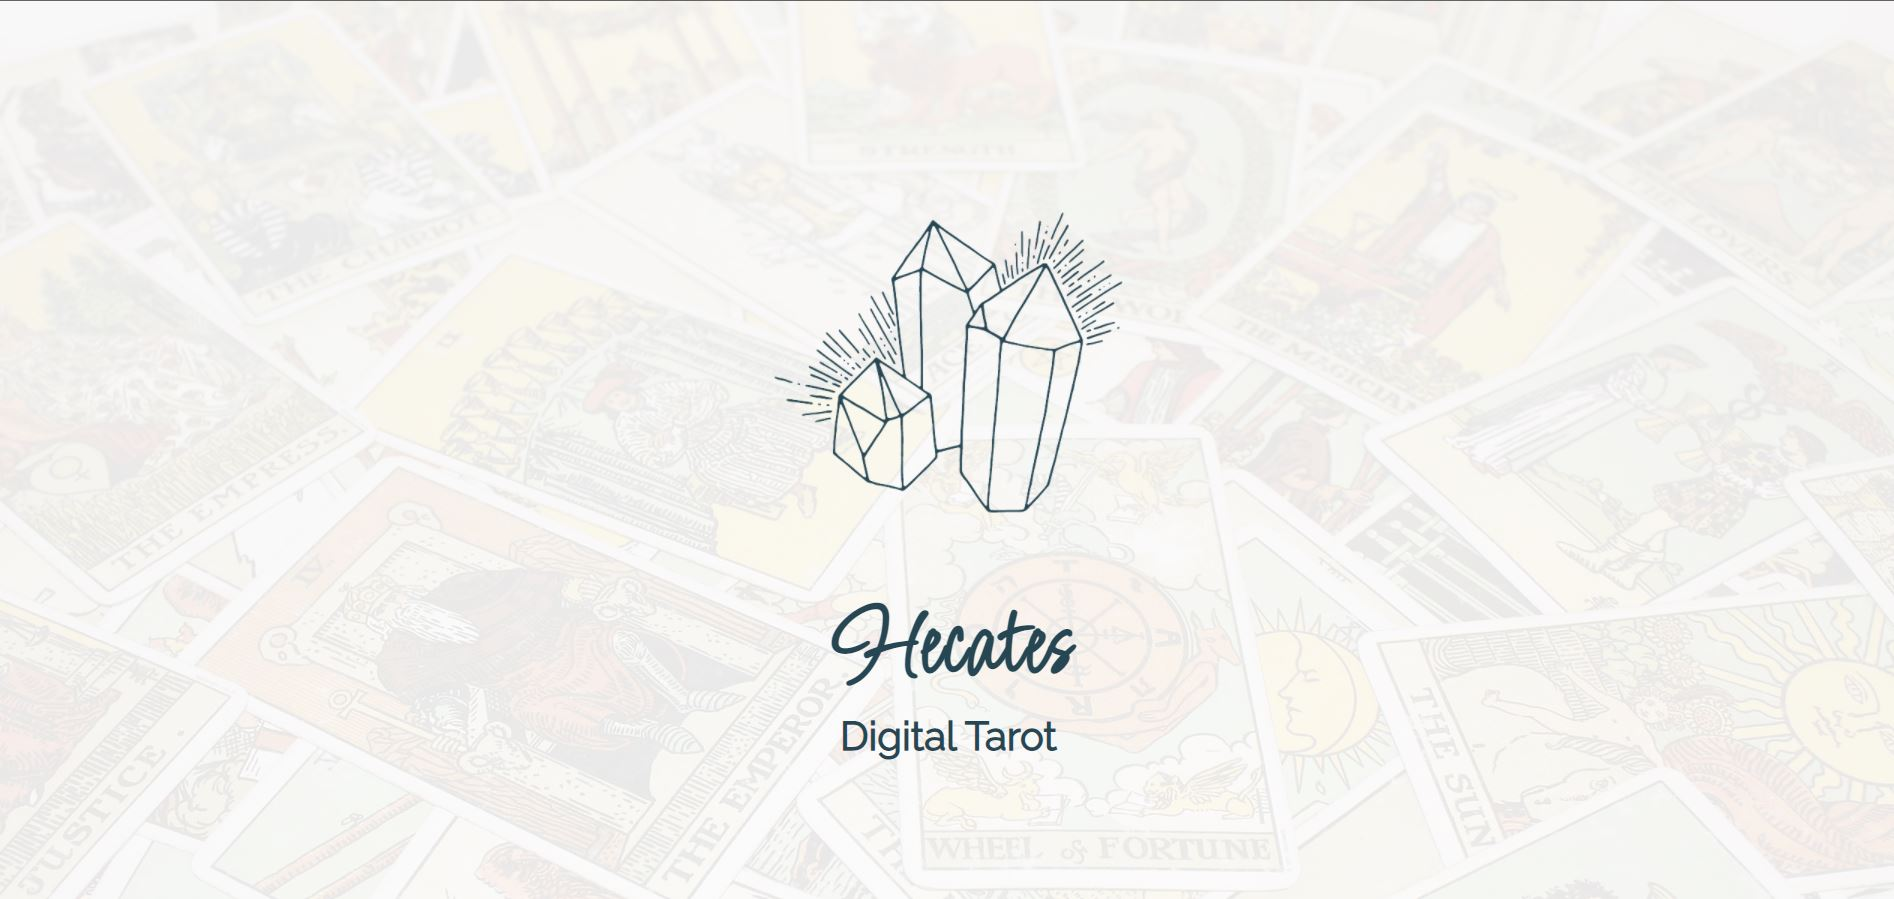
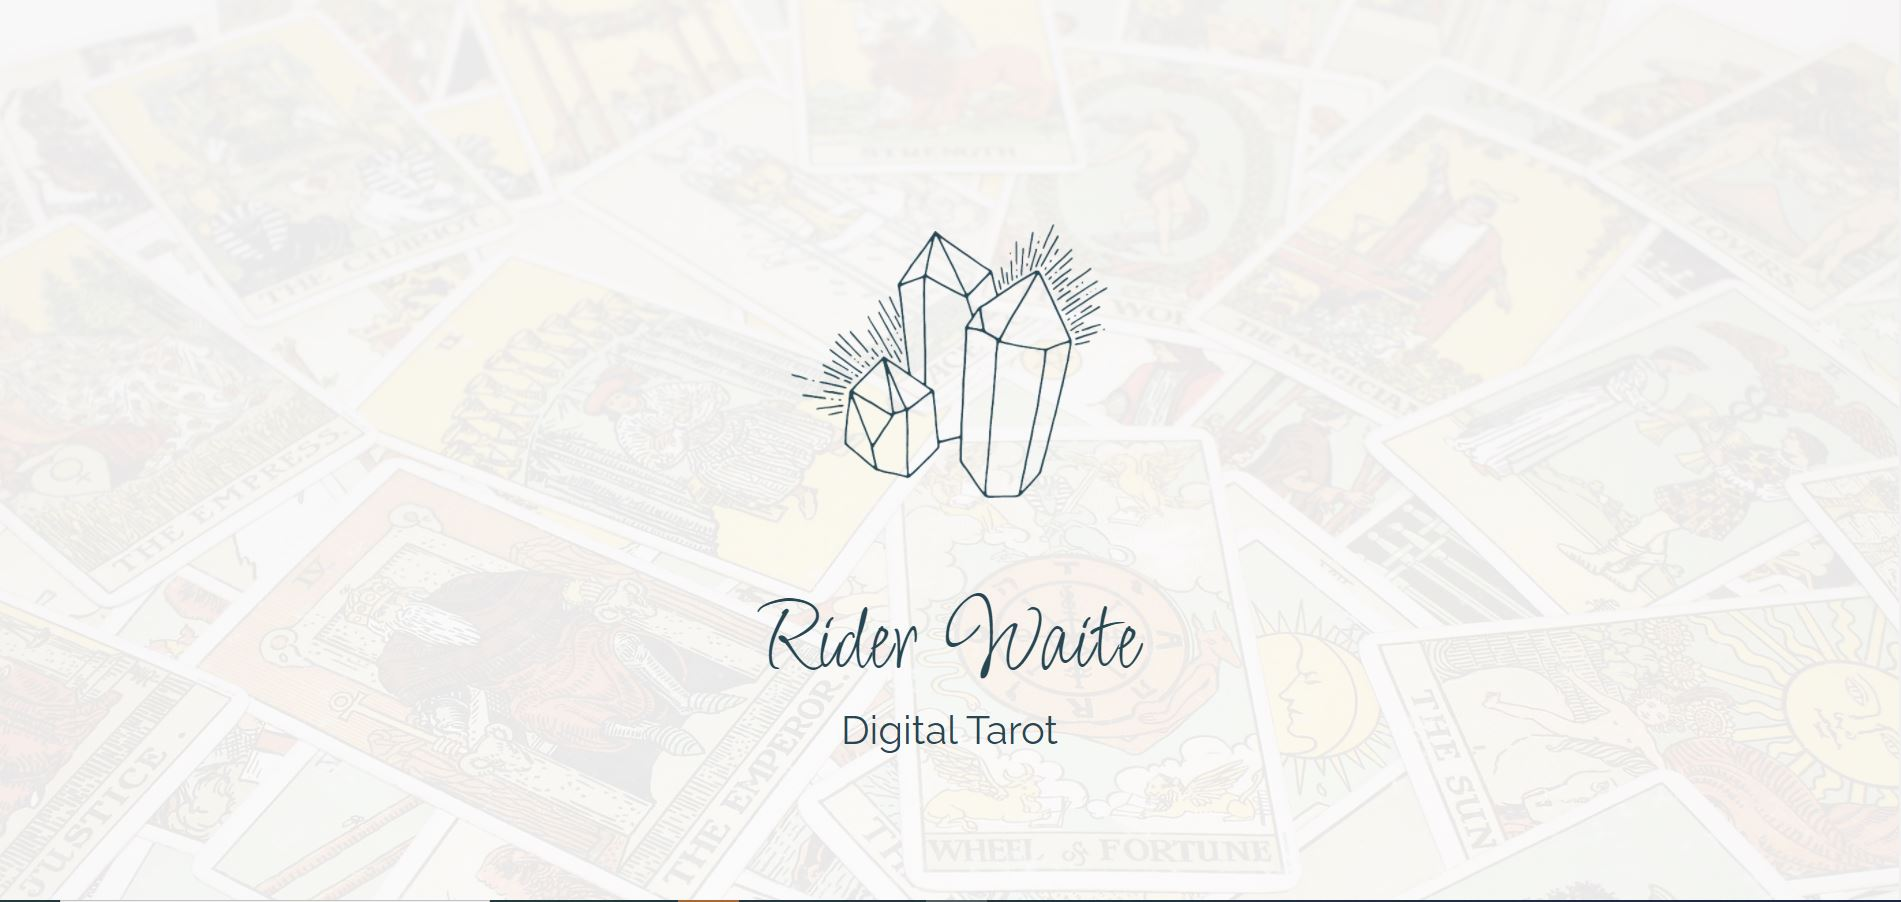
rename tarot project

diff --git a/scripts/projects.js b/scripts/projects.js
@@ -64,8 +64,8 @@ const projects = [
     live: "https://jason-trivia-game.netlify.app/",
   },
   {
-    title: "Hecates Digital Tarot",
-    desc: "Work In progress: Creating a digital tarot with multiple spreads",
+    title: "Rider Waite Digital Tarot",
+    desc: "Digital Tarot generator with multiple spreads",
     stack: "HTML/CSS/JS",
     img: "./images/Digital_Tarot.JPG",
     img_alt: "Point Of Sale",
